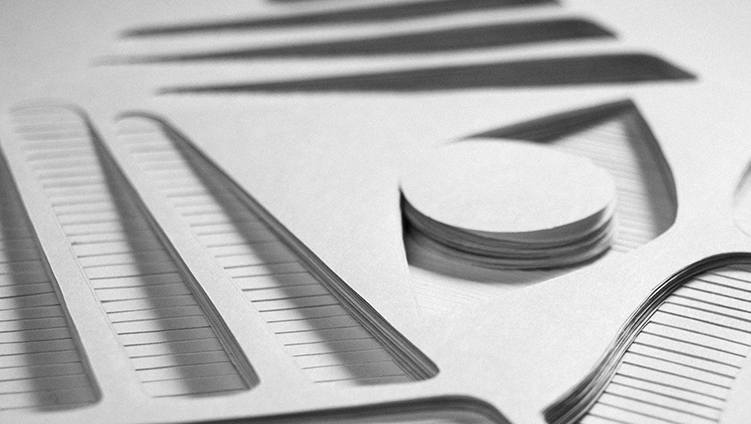
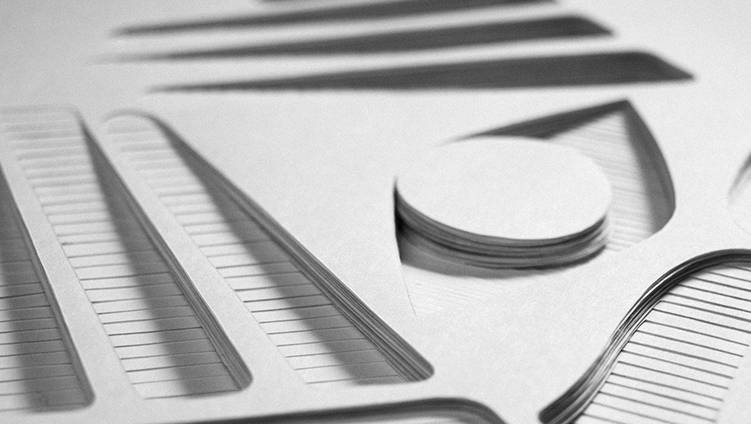
added and replace images
case study 1 is finished with

diff --git a/pages/index.html b/pages/index.html
@@ -39,10 +39,10 @@ permalink: home.html
           <div class="grid">
             <div class="unit unit-content-center [ xs-2-3 m-1-2 l-2-3 ]">
               <picture>
-                <source media="(min-width: 90em)" srcset="http://via.placeholder.com/448x252">
-                <source media="(min-width: 60em)" srcset="http://via.placeholder.com/304x171">
-                <source media="(min-width: 38em)" srcset="http://via.placeholder.com/178x178">
-                <img src="http://via.placeholder.com/200x200" alt="place holder image">
+                <source media="(min-width: 90em)" srcset="{{site-baseurl}}/images/cover-images/work-1/work-1-448x252.jpg">
+                <source media="(min-width: 60em)" srcset="{{site-baseurl}}/images/cover-images/work-1/work-1-304x171.jpg">
+                <source media="(min-width: 38em)" srcset="{{site-baseurl}}/images/cover-images/work-1/work-1-178x178.jpg">
+                <img src="{{site-baseurl}}/images/cover-images/work-1/work-1-200x200.jpg" alt="a still from the video">
               </picture>
             </div>
             <div itemscope itemtype="http://schema.org/Thing" class="text-center unit-content-center-vertical unit [ xs-1-3 m-1-2 l-1-3 ]">
